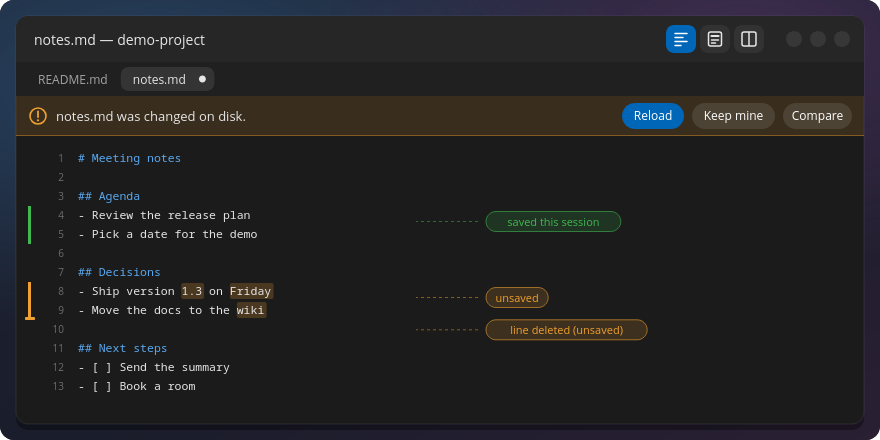
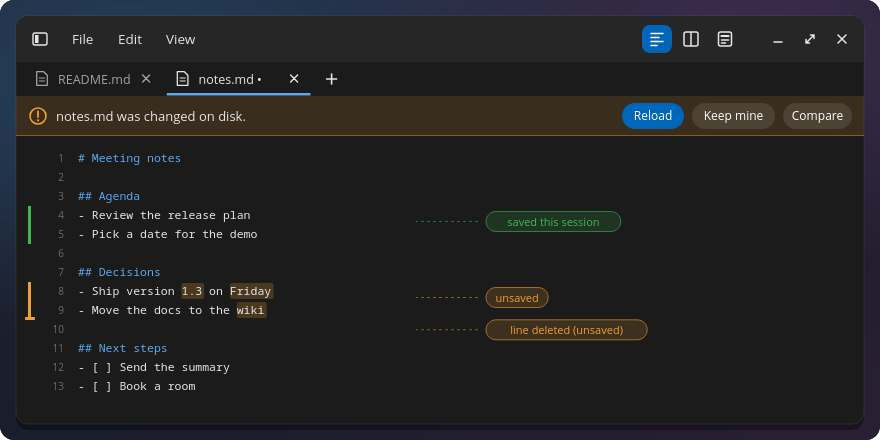
Mockups: every Text Editor image uses the app's real window frame
The "changed on disk", compare, two views, "/" menu and Markdown
shortcuts mockups move from the old frame (window title, view buttons
in the wrong order, round window buttons) to app_frame(): the sidebar
button and File / Edit / View, the view buttons as Source, Split,
Preview, real window controls, and tabs with icon, close button and +.
Their content is unchanged. The two views draw one such tab row per
view (tab_row()). The old editor() frame is gone. PNG copies updated.

diff --git a/docs/media/src/gen.py b/docs/media/src/gen.py
@@ -373,36 +373,13 @@ def view_icon(kind, x, y, col):
                                   f'<path d="M{x+4.5} {y+5.5}h7" stroke="{col}" stroke-width="2.2" stroke-linecap="round"/><path d="M{x+4.5} {y+9.5}h7M{x+4.5} {y+12.5}h4" {st}/>')
     return f'<rect x="{x+1}" y="{y+1.5}" width="14" height="14" rx="2" {st}/><path d="M{x+8} {y+2}v13" {st}/>'
 
-def editor(W, H, title, tabs, view):
-    """Text Editor window frame. tabs = [(label, active, unsaved)]. Returns (body, x, y, w, h) of the content area."""
-    wx, wy, ww, wh = 16, 16, W - 32, H - 32
-    b = shadow_rect(wx, wy, ww, wh, 12, "#1b1b1b")
-    b += f'<path d="M{wx} {wy+12}a12 12 0 0 1 12-12h{ww-24}a12 12 0 0 1 12 12v34H{wx}z" fill="#262626"/>'
-    b += t(wx + 18, wy + 29, title, 14, TXT, 500)
-    bx = wx + ww - 96 - 3 * 34
-    for i, kind in enumerate(("source", "preview", "split")):
-        on = kind == view; x = bx + i * 34
-        b += f'<rect x="{x}" y="{wy+9}" width="30" height="28" rx="8" fill="{ACC if on else "#ffffff"}"' + ("" if on else ' fill-opacity=".06"') + '/>'
-        b += view_icon(kind, x + 7, wy + 14.5, "#ffffff" if on else TXT)
-    for i in range(3):
-        b += f'<circle cx="{wx + ww - 22 - i * 24}" cy="{wy+23}" r="8" fill="#ffffff" fill-opacity=".08"/>'
-    ty = wy + 46
-    b += f'<rect x="{wx}" y="{ty}" width="{ww}" height="34" fill="#202020"/>'
-    x = wx + 10
-    for lab, on, dirty in tabs:
-        tw = 22 + len(lab) * 7.2 + (14 if dirty else 0)
-        if on: b += f'<rect x="{x}" y="{ty+5}" width="{tw}" height="24" rx="8" fill="#ffffff" fill-opacity=".09"/>'
-        b += t(x + 12, ty + 22, lab, 12, TXT if on else MUTED)
-        if dirty: b += f'<circle cx="{x + tw - 12}" cy="{ty+17}" r="3.5" fill="{TXT if on else MUTED}"/>'
-        x += tw + 8
-    return b, wx, ty + 34, ww, wy + wh - ty - 34
-
 def pill(x, y, left, right, col):
     lw = 10 + len(left) * 6.1; rw = 10 + len(right) * 6.1
     return (f'<g><rect x="{x}" y="{y}" width="{lw+rw}" height="20" rx="3" fill="{col}"/><path d="M{x+3} {y}h{lw-3}v20h-{lw-3}a3 3 0 0 1-3-3v-14a3 3 0 0 1 3-3z" fill="#555"/>'
             + t(x + lw/2, y + 14, left, 11, "#fff", anchor="middle") + t(x + lw + rw/2, y + 14, right, 11, "#fff", anchor="middle") + '</g>'), lw + rw
 
 def app_frame(W, H, tabs, view, nav=0):
+    # tabs=None: no tab row (the caller draws its own, e.g. one per view)
     """Text Editor window as the app looks today: header bar with the sidebar button, File / Edit / View
     and the view buttons, tabs with icon, close button and +, and an optional project sidebar `nav` px wide.
     tabs = [(label, active, unsaved)]. Returns (body, x, y, w, h) of the area under the tabs."""
@@ -430,7 +407,13 @@ def app_frame(W, H, tabs, view, nav=0):
     if nav:
         b += f'<rect x="{wx}" y="{py}" width="{nav}" height="{wy+wh-py}" fill="#202020"/><rect x="{wx+nav}" y="{py}" width="1" height="{wy+wh-py}" fill="#ffffff" fill-opacity=".08"/>'
     x0 = wx + nav; cw0 = ww - nav
-    x = x0 + 10
+    if tabs is not None: b += tab_row(x0, py, tabs)[0]
+    return b, x0, py + 34, cw0, wy + wh - py - 34
+
+def tab_row(x0, py, tabs):
+    """Tabs as the app draws them: icon, label (" •" when unsaved), close button, accent line under the
+    active one, then +. Returns (body, {label: x}, x after the +)."""
+    b = ""; pos = {}; x = x0 + 10
     for lab, on, dirty in tabs:
         label = lab + (" •" if dirty else "")
         tw = 70 + len(label) * 7.4
@@ -438,9 +421,9 @@ def app_frame(W, H, tabs, view, nav=0):
         b += t(x + 32, py + 22, label, 12.5, TXT if on else MUTED, 500 if on else 400)
         b += f'<path d="M{x+tw-20} {py+13}l7 7M{x+tw-13} {py+13}l-7 7" fill="none" stroke="{TXT if on else MUTED}" stroke-width="1.4" stroke-linecap="round"/>'
         if on: b += f'<rect x="{x}" y="{py+31}" width="{tw}" height="2.5" rx="1" fill="{ACC_TXT}"/>'
-        x += tw + 4
+        pos[lab] = x; x += tw + 4
     b += f'<path d="M{x+12} {py+17}h10M{x+17} {py+12}v10" stroke="{TXT}" stroke-width="1.6" stroke-linecap="round"/>'
-    return b, x0, py + 34, cw0, wy + wh - py - 34
+    return b, pos, x + 34
 
 def file_icon(x, y, col):
     # 12x15 text-file glyph at (x, y)
@@ -596,7 +579,7 @@ def callout(x, y, label, col):
 
 def changes():
     W, H = 880, 440
-    b, x0, py, ww, ph = editor(W, H, "notes.md — demo-project", [("README.md", 0, 0), ("notes.md", 1, 1)], "source")
+    b, x0, py, ww, ph = app_frame(W, H, [("README.md", 0, 0), ("notes.md", 1, 1)], "source")
     # non-modal bar
     b += f'<rect x="{x0}" y="{py}" width="{ww}" height="40" fill="{WARN}" fill-opacity=".14"/><rect x="{x0}" y="{py+39}" width="{ww}" height="1" fill="{WARN}" fill-opacity=".4"/>'
     b += (f'<circle cx="{x0+22}" cy="{py+20}" r="8" fill="none" stroke="{WARN}" stroke-width="1.6"/><path d="M{x0+22} {py+15.5}v5.5" stroke="{WARN}" stroke-width="1.8" stroke-linecap="round"/><circle cx="{x0+22}" cy="{py+24.3}" r="1.1" fill="{WARN}"/>'
@@ -636,7 +619,7 @@ def changes():
 
 def compare():
     W, H = 880, 430
-    b, x0, py, ww, ph = editor(W, H, "notes.md ↔ saved — demo-project", [("notes.md", 0, 1), ("notes.md ↔ saved", 1, 0)], "source")
+    b, x0, py, ww, ph = app_frame(W, H, [("notes.md", 0, 1), ("notes.md ↔ saved", 1, 0)], "source")
     half = ww / 2
     b += f'<rect x="{x0}" y="{py}" width="{ww}" height="28" fill="#ffffff" fill-opacity=".03"/>'
     b += t(x0 + 16, py + 19, "Saved on disk", 12, MUTED, 600) + t(x0 + half + 16, py + 19, "Current (unsaved)", 12, MUTED, 600)
@@ -669,19 +652,13 @@ def compare():
 
 def views():
     W, H = 880, 460
-    b, x0, py, ww, ph = editor(W, H, "notes.md — demo-project", [], "source")
+    b, x0, py, ww, ph = app_frame(W, H, None, "source")
     gap = 6; vw = (ww - gap) / 2; ty = py - 34
     b += f'<rect x="{x0+vw}" y="{ty}" width="{gap}" height="{ph+34}" fill="#1b1b1b"/><rect x="{x0+vw+gap/2-.5}" y="{ty}" width="1" height="{ph+34}" fill="#ffffff" fill-opacity=".1"/>'
     b += f'<rect x="{x0}" y="{ty}" width="{vw}" height="2" fill="{ACC}"/>'  # active view
     tabx = {}
     for vx, tabs in ((x0, [("notes.md", 1, 0), ("todo.md", 0, 0)]), (x0 + vw + gap, [("notes-v2.md", 1, 1)])):
-        x = vx + 10
-        for lab, on, dirty in tabs:
-            tw = 22 + len(lab) * 7.2 + (14 if dirty else 0)
-            if on: b += f'<rect x="{x}" y="{ty+5}" width="{tw}" height="24" rx="8" fill="#ffffff" fill-opacity=".09"/>'
-            b += t(x + 12, ty + 22, lab, 12, TXT if on else MUTED)
-            if dirty: b += f'<circle cx="{x + tw - 12}" cy="{ty+17}" r="3.5" fill="{TXT if on else MUTED}"/>'
-            tabx[lab] = x; x += tw + 8
+        g, pos, _ = tab_row(vx, ty, tabs); b += g; tabx.update(pos)
     left = ["# Meeting notes", "", "## Agenda", "- Review the release plan", "- Pick a date for the demo", "",
             "## Decisions", "- Ship version 1.2 next week", "- Move the docs to the website", "",
             "## Next steps", "- [ ] Send the summary", "- [ ] Book a room"]
@@ -726,7 +703,7 @@ def popup_rows(x, y, w, rows, rh=32):
 
 def slash():
     W, H = 880, 560
-    b, x0, py, ww, ph = editor(W, H, "notes.md — demo-project", [("notes.md", 1, 1), ("todo.md", 0, 0)], "source")
+    b, x0, py, ww, ph = app_frame(W, H, [("notes.md", 1, 1), ("todo.md", 0, 0)], "source")
     lines = ["# Weekly notes", "", "## Done", "- Fixed the login page", "- Wrote the release notes", "",
              "## Next", "/"]
     ly0 = py + 26; lh = 19; tx = x0 + 46; cw = 6.95
@@ -767,7 +744,7 @@ def keycap(x, y, label):
 
 def mdedit():
     W, H = 880, 580
-    b, x0, py, ww, ph = editor(W, H, "trip.md — demo-project", [("trip.md", 1, 1), ("notes.md", 0, 0)], "source")
+    b, x0, py, ww, ph = app_frame(W, H, [("trip.md", 1, 1), ("notes.md", 0, 0)], "source")
     H1 = ACC_TXT; LNK = "#82aaff"; G = "#c3e88d"
     # (text, colour) or a list of (text, colour) runs
     lines = [[("# Weekend trip", H1)], [], [("## Packing", H1)],
